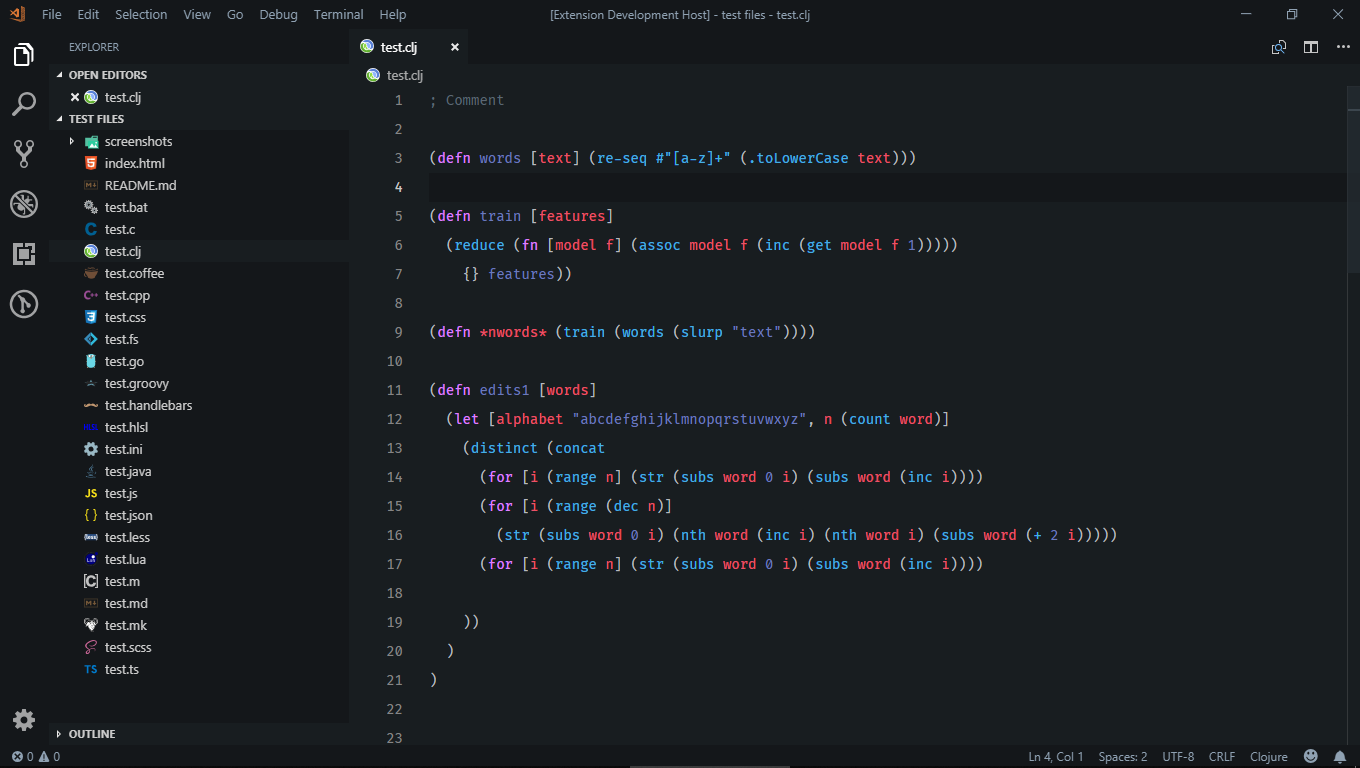
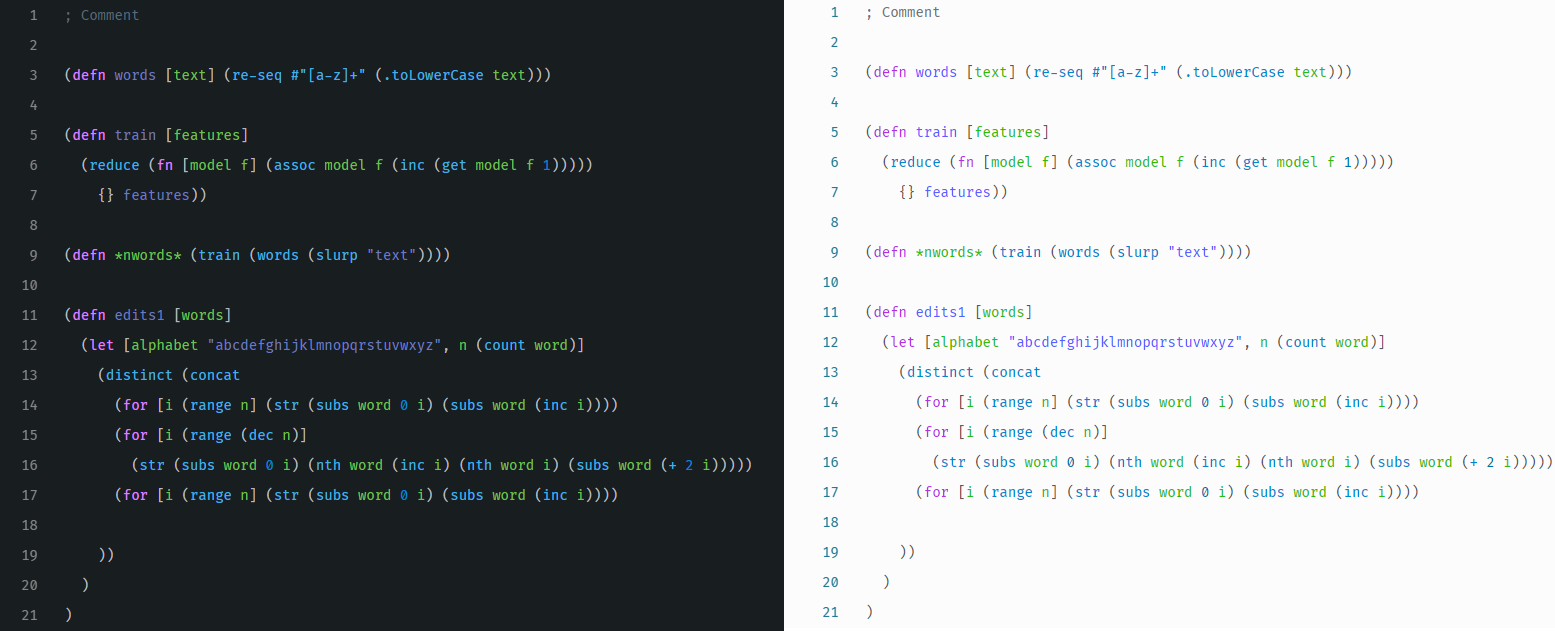
Beta-1.1.x-3

diff --git a/test files/screenshots/SCREENSHOTS.md b/test files/screenshots/SCREENSHOTS.md
@@ -1,6 +1,7 @@
 ## Screenshots:
 
-Please note: I work on this in my spare time, and I balance this among other projects too. Please don't be so hasty. These screenshots are not representative of the final product.
+Here are the latest screenshots of this theme. This is in the layout of `Dark` on the left and `Light` on the right
+Please note, the code presented here is 100% not mine, and was manually typed out from google images. If you recognise a piece of code which you do not want to be displayed, please let me know and I will edit the screenshot.
 
 ### Quantum Dark Theme
 
@@ -112,8 +113,3 @@ XSL
 YAML
 
 log
-
-
-### Quantum Light Theme
-
-WILL BE UPDATED WHEN QUANTUM LIGHT IS IN A GOOD STATE

diff --git a/CHANGELOG B.md b/CHANGELOG B.md
@@ -2,6 +2,12 @@
 
 Beta changelogs document every beta build which is published to GitHub, before release. Beta releases can be cloned from the `beta` branch, or else from the releases [here](https://github.com/beastdestroyer/vscode-firefox-quantum-themes/releases) and look for the ones labelled `Pre-release` or 'Beta' in the title
 
+## Beta-1.1.x-3
+
+- Symbols in Clojure changed to green
+- Updated `SCREENSHOTS.md` with a few new and improved images
+- Maintaining Parity with Firefox DevTools [#28](https://github.com/beastdestroyer/vscode-firefox-quantum-themes/issues/28)
+
 ## Beta-1.1.x-2
 
 - CONSISTENCY Background colour changed on tabs to match DevTools, Light
